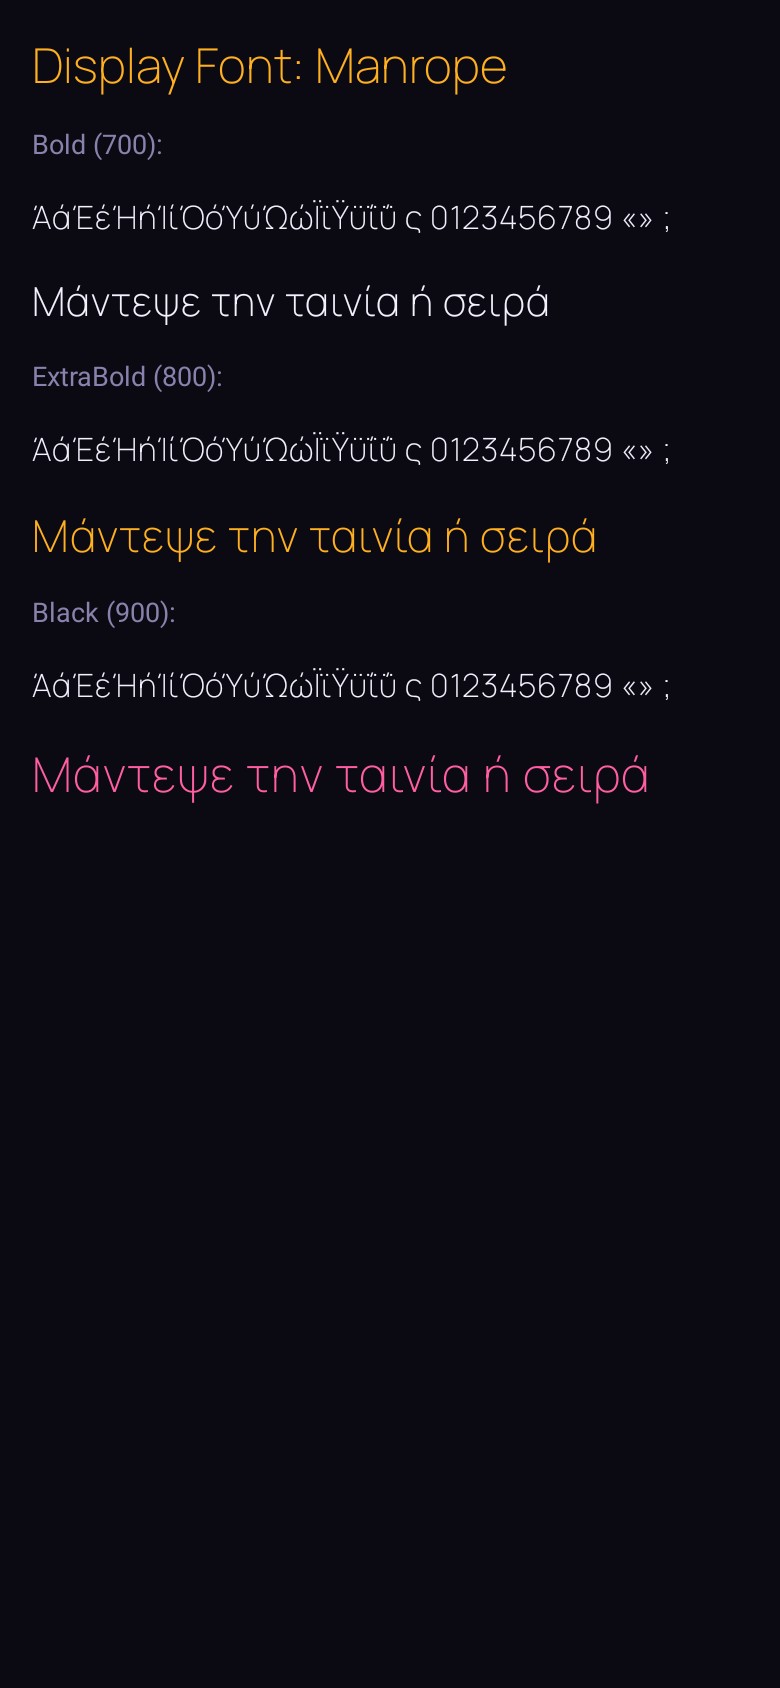
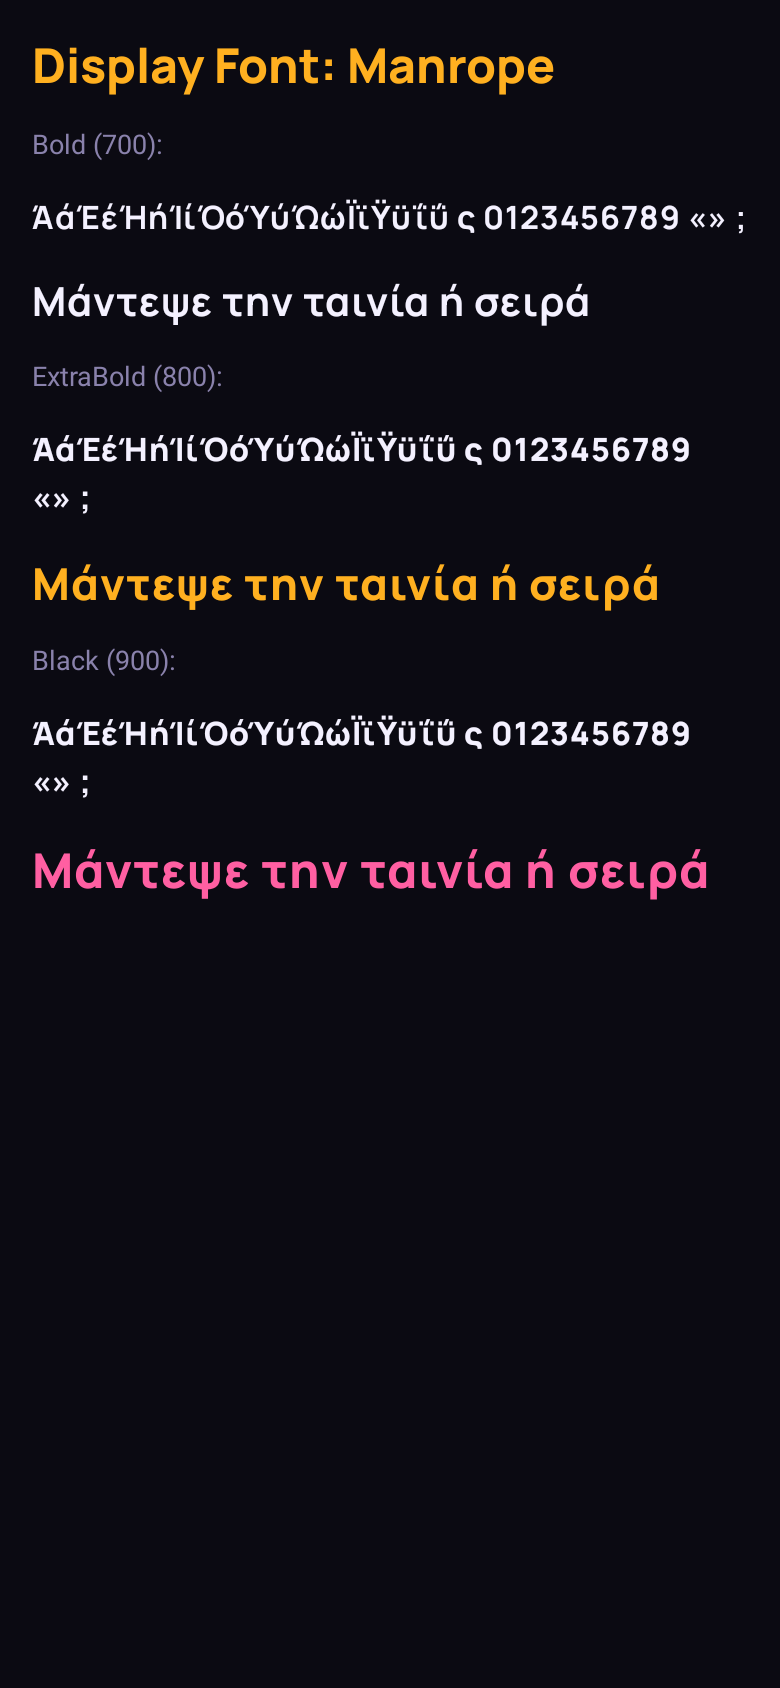
Typography: configure FontVariation weight settings for Manrope font family

diff --git a/app/src/main/java/gr/wsol/gamenight/ui/Theme.kt b/app/src/main/java/gr/wsol/gamenight/ui/Theme.kt
@@ -44,11 +44,12 @@ object C {
     val quad = listOf(Color(0xFFF5D547), Color(0xFF7BD389), Color(0xFF6FA8FF), Color(0xFFC08CFF))
 }
 
+@OptIn(androidx.compose.ui.text.ExperimentalTextApi::class)
 val DisplayFont = FontFamily(
-    androidx.compose.ui.text.font.Font(gr.wsol.gamenight.R.font.manrope, FontWeight.Normal),
-    androidx.compose.ui.text.font.Font(gr.wsol.gamenight.R.font.manrope, FontWeight.Bold),
-    androidx.compose.ui.text.font.Font(gr.wsol.gamenight.R.font.manrope, FontWeight.ExtraBold),
-    androidx.compose.ui.text.font.Font(gr.wsol.gamenight.R.font.manrope, FontWeight.Black),
+    androidx.compose.ui.text.font.Font(gr.wsol.gamenight.R.font.manrope, FontWeight.Normal, variationSettings = androidx.compose.ui.text.font.FontVariation.Settings(androidx.compose.ui.text.font.FontVariation.weight(400))),
+    androidx.compose.ui.text.font.Font(gr.wsol.gamenight.R.font.manrope, FontWeight.Bold, variationSettings = androidx.compose.ui.text.font.FontVariation.Settings(androidx.compose.ui.text.font.FontVariation.weight(700))),
+    androidx.compose.ui.text.font.Font(gr.wsol.gamenight.R.font.manrope, FontWeight.ExtraBold, variationSettings = androidx.compose.ui.text.font.FontVariation.Settings(androidx.compose.ui.text.font.FontVariation.weight(800))),
+    androidx.compose.ui.text.font.Font(gr.wsol.gamenight.R.font.manrope, FontWeight.Black, variationSettings = androidx.compose.ui.text.font.FontVariation.Settings(androidx.compose.ui.text.font.FontVariation.weight(800))),
 )
 
 val Serif = DisplayFont
